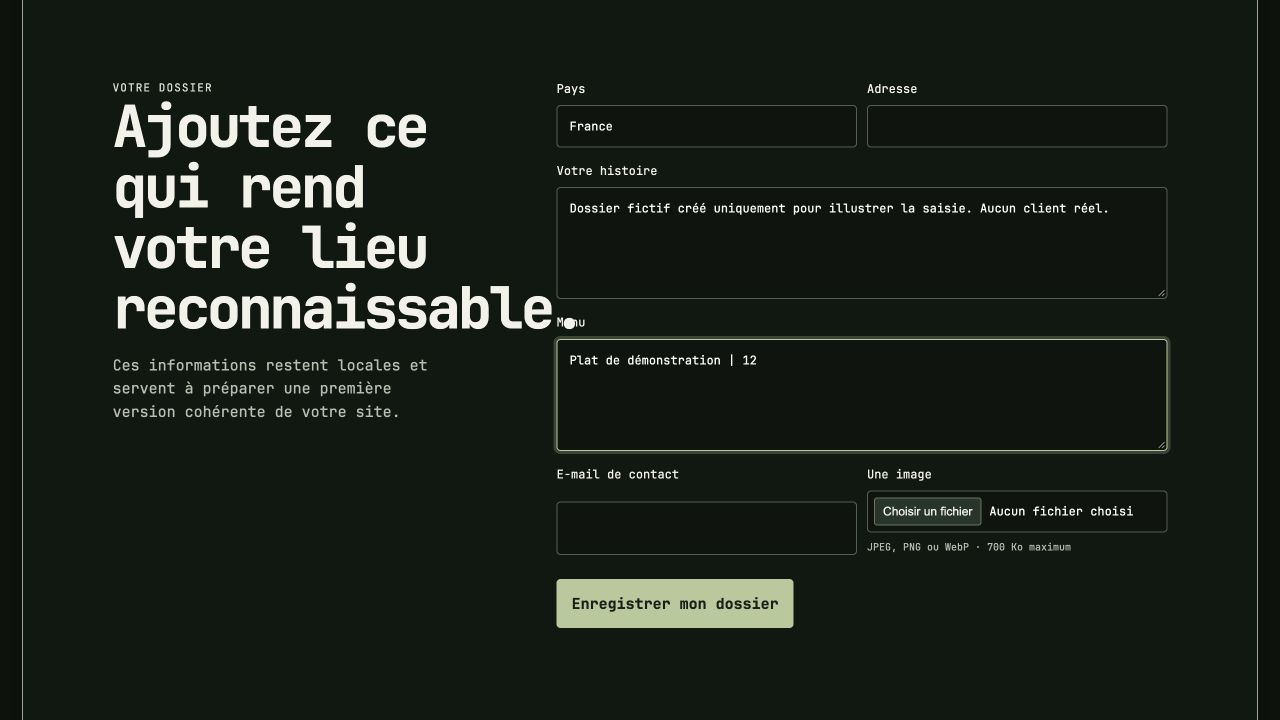
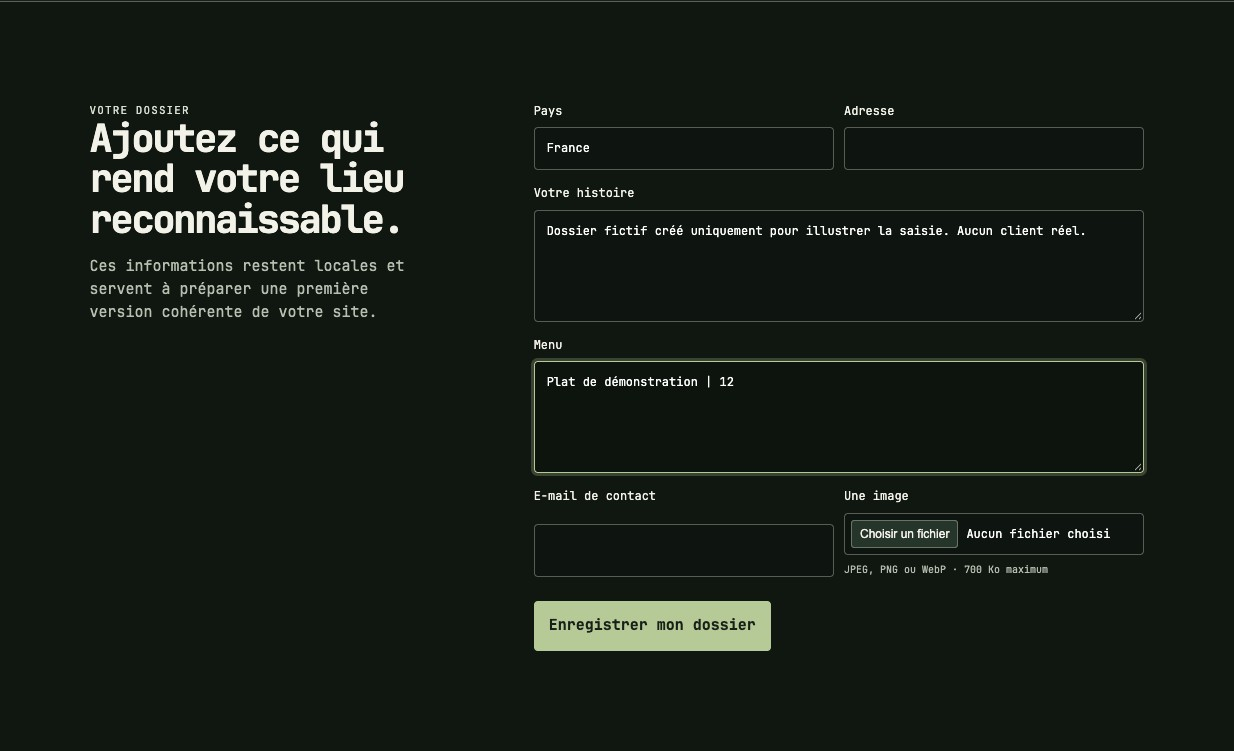
docs: expliquer les arbres de décision et corriger la capture du formulaire

diff --git a/app/intake.css b/app/intake.css
@@ -1,3 +1,4 @@
 @font-face{font-family:Jet;src:url('/assets/JetBrainsMono[wght].woff2') format('woff2');font-style:normal;font-weight:100 800;font-display:swap}
 :root{color-scheme:dark;--ink:#f3f2e9;--muted:#b8beb0;--line:#cad6c066;--deep:#172019;--deep-2:#26352a;--moss:#b6ca98;--paper:#e6e4d8;--black:#0d110e;font:15px/1.55 Jet,monospace}
 *{box-sizing:border-box}html{scroll-behavior:smooth}body{margin:0;background:#111711;color:var(--ink)}button,input,textarea{font:inherit}button{cursor:pointer}.intake-frame{min-height:100dvh;margin:22px;border:1px solid #e2e8d8a8;border-radius:18px;overflow:hidden;background:var(--deep);box-shadow:0 25px 100px #0009}.client-nav{position:relative;z-index:5;display:flex;align-items:center;justify-content:space-between;padding:24px 32px;border-bottom:1px solid #ffffff12}.client-brand{display:flex;align-items:center;gap:10px;color:var(--ink);text-decoration:none;font-size:24px;letter-spacing:-.045em}.mascot-mark{display:inline-grid;place-items:center;width:25px;height:25px;border:1px solid var(--moss);border-radius:48% 52% 45% 55%;color:var(--moss);font-size:13px;line-height:1;transform:rotate(-8deg)}.client-links{display:flex;align-items:center;gap:28px}.client-links a{color:var(--muted);text-decoration:none;font-size:12px;letter-spacing:.06em;text-transform:uppercase}.client-links a:hover{color:var(--ink)}.menu-button{display:none;border:1px solid var(--line);border-radius:5px;background:transparent;color:var(--ink);padding:8px 10px}.client-nav.menu-open .client-links{display:flex;position:absolute;z-index:5;top:100%;right:10px;left:10px;flex-direction:column;align-items:flex-start;gap:15px;padding:16px;background:var(--deep-2);border:1px solid var(--line);border-radius:0 0 8px 8px}.client-hero{position:relative;display:block;min-height:calc(100dvh - 79px);overflow:hidden}.hero-copy{position:relative;z-index:2;display:flex;flex-direction:column;justify-content:center;width:53%;min-height:calc(100dvh - 79px);padding:72px clamp(28px,7vw,105px);background:linear-gradient(90deg,#101711f5 0%,#101711d9 48%,transparent 100%)}.kicker,.small-label{font-size:11px;letter-spacing:.1em;text-transform:uppercase;color:#d9dfd1}.hero-copy h1{margin:14px 0 18px;font-size:clamp(44px,5.2vw,76px);line-height:1.05;letter-spacing:-.06em;font-weight:600;max-width:10ch;color:#fff}.hero-copy>p{color:#e1e5db;max-width:33ch;font-size:16px}.audit-form{margin-top:26px;max-width:390px;padding-top:22px;border-top:1px solid #dbe5d277}.form-label{display:block;color:#fff;font-size:13px;margin-bottom:11px}.field-row{display:grid;grid-template-columns:1.15fr .85fr;gap:8px}.field{width:100%;border:1px solid #e7eee055;border-radius:4px;background:#0d140ee6;color:#fff;padding:13px 12px;outline:none}.field::placeholder{color:#c1cabb}.field:focus{border-color:var(--moss);box-shadow:0 0 0 3px #b6ca9840}.primary{display:inline-flex;align-items:center;justify-content:center;gap:10px;margin-top:10px;border:1px solid var(--moss);border-radius:4px;padding:12px 14px;background:var(--moss);color:#182018;text-decoration:none;font-weight:600}.primary:hover{background:#cadbad}.primary:disabled{cursor:wait;opacity:.6}.form-note{margin:10px 0 0;color:#d0d8ca;font-size:11px}.form-state{display:none;margin:13px 0 0;color:#fff;font-size:13px}.form-state.show{display:block}.hero-art{position:absolute;inset:0;min-height:0;background:#0f1510;overflow:hidden}.hero-art:before{content:"";position:absolute;inset:0;background:linear-gradient(90deg,#101711f0 0%,#101711aa 31%,transparent 68%),linear-gradient(0deg,#0f1510b8 0%,transparent 32%);z-index:1;pointer-events:none}.hero-art img{width:100%;height:100%;object-fit:cover;object-position:70% center;filter:saturate(.88) contrast(1.05);animation:breath 12s ease-in-out infinite alternate}.section{padding:100px clamp(28px,7vw,105px);border-top:1px solid var(--line)}.section-grid{display:grid;grid-template-columns:minmax(200px,.7fr) 1.3fr;gap:9vw}.section h2{margin:0;font-size:clamp(34px,4.5vw,64px);line-height:1.05;letter-spacing:-.055em;font-weight:600;max-width:9ch}.section p{color:var(--muted);max-width:47ch}.explain-list{border-top:1px solid var(--line)}.explain{display:grid;grid-template-columns:42px 1fr;gap:16px;padding:18px 0;border-bottom:1px solid var(--line)}.explain-index{color:var(--moss);font-size:12px}.explain strong{display:block;font-weight:600;margin-bottom:4px}.explain span{color:var(--muted);font-size:13px}.promise{display:grid;grid-template-columns:1fr 1fr;gap:8vw;align-items:end}.promise h2{max-width:12ch}.promise p{margin:0}.dossier-section{background:#101711}.dossier-section h2{max-width:11ch}.dossier-section .section-grid{align-items:start}.dossier-form{display:grid;grid-template-columns:1fr 1fr;gap:14px 10px}.field-label{display:grid;gap:7px;color:var(--ink);font-size:12px}.field-label:nth-child(3),.field-label:nth-child(4){grid-column:1/-1}.field-label small{color:var(--muted);font-size:10px}.dossier-form .field{padding:11px 12px}.dossier-form textarea{min-height:112px;resize:vertical}.menu-input{min-height:90px}.file-field{padding:6px!important}.file-field::file-selector-button{margin-right:8px;border:1px solid var(--line);border-radius:3px;background:var(--deep-2);color:var(--ink);padding:6px 8px}.photo-preview{grid-column:1/-1}.photo-preview img{display:block;width:min(100%,280px);max-height:170px;object-fit:cover;border:1px solid var(--line)}.dossier-submit{grid-column:1/-1;display:flex;align-items:center;gap:14px}.dossier-submit [role=status]{color:#e4c178;font-size:12px}.success-section h2{max-width:none;margin:8px 0 14px}.success-section p{margin-bottom:18px}.client-footer{display:flex;justify-content:space-between;gap:20px;padding:24px 32px;border-top:1px solid var(--line);color:var(--muted);font-size:12px}.client-footer a{color:var(--moss);text-decoration:none}@keyframes breath{from{transform:scale(1.01) translate3d(0,0,0)}to{transform:scale(1.045) translate3d(-.5%,-.4%,0)}}[hidden]{display:none!important}@media(max-width:820px){.intake-frame{margin:10px;border-radius:12px}.client-nav{padding:19px 20px}.client-links{display:none}.menu-button{display:block}.client-hero{min-height:calc(100svh - 67px)}.hero-copy{width:100%;min-height:calc(100svh - 67px);justify-content:flex-end;padding:30px 24px 42px;background:linear-gradient(180deg,transparent 4%,#10171180 30%,#101711f2 62%,#101711 100%)}.hero-copy h1{max-width:12ch;font-size:clamp(40px,11vw,54px);line-height:1.06;margin-bottom:14px}.hero-copy>p{max-width:32ch;font-size:14px;margin-top:0}.audit-form{max-width:none;margin-top:20px;padding-top:18px}.field-row{grid-template-columns:1fr}.primary{width:100%;min-height:46px}.hero-art{height:100%;min-height:0}.section{padding:70px 24px}.section-grid,.promise{grid-template-columns:1fr;gap:36px}.section h2{max-width:12ch}.dossier-form{grid-template-columns:1fr}.field-label:nth-child(3),.field-label:nth-child(4){grid-column:auto}.dossier-submit{align-items:flex-start;flex-direction:column}.client-footer{padding:21px 20px;flex-wrap:wrap}}@media(prefers-reduced-motion:reduce){html{scroll-behavior:auto}.hero-art img{animation:none}}
+.dossier-section .section-grid h2{max-width:100%;font-size:clamp(24px,3vw,42px);overflow-wrap:anywhere}

diff --git a/docs/ARBRE-DE-DECISION.md b/docs/ARBRE-DE-DECISION.md
@@ -1,0 +1,141 @@
+# Ancrage : les arbres de décision du parcours client
+
+Mon travail ne se limite pas à créer un formulaire et un aperçu de site. J'ai conçu un parcours qui décide quoi rechercher, quoi demander au client, quels audits peuvent continuer et quand une démo peut être préparée puis présentée.
+
+Cette page reprend les documents de conception déjà préparés en août 2026, notamment **89, Parcours client complet Website Factory** et **90, Correction du parcours rapport GMB + SEO**. Les diagrammes ci-dessous en proposent une lecture simplifiée pour comprendre les décisions métier sans lire le code.
+
+**Comment lire cette page :** les diagrammes décrivent le parcours cible conçu. Une partie de ses règles existe dans le code du dépôt ; le formulaire photographié dans la visite ne raccorde pas encore toute cette chaîne. Les essais présentés sont des simulations locales, sans client réel ni appel payant. La dernière section indique précisément où retrouver la logique et ses limites.
+
+GMB désigne la fiche d'établissement Google, aujourd'hui appelée Google Business Profile. Le SEO désigne le référencement naturel, c'est-à-dire la visibilité dans les moteurs de recherche.
+
+## 1. Identifier le bon établissement
+
+Le point de départ prévu est le nom de l'établissement et une ville sélectionnée dans des suggestions structurées. Le système doit éviter de travailler sur une entreprise qui porte le même nom mais se trouve ailleurs.
+
+```mermaid
+flowchart TD
+  A["Le client indique son établissement et sa ville"] --> B{"Ville sélectionnée dans les suggestions ?"}
+  B -- Non --> C["Demander de sélectionner la ville et son pays"]
+  C --> B
+  B -- Oui --> D["Rechercher les établissements et leurs sources"]
+  D --> E{"Résultat de l'identification ?"}
+  E -- "Une correspondance forte" --> F["Afficher la fiche et laisser la possibilité de corriger"]
+  F --> G{"Le client signale une erreur ?"}
+  G -- Non --> H["Identité retenue pour la suite"]
+  G -- Oui --> K["Demander l'adresse sans redemander la ville"]
+  E -- "Plusieurs correspondances" --> I["Afficher les candidats pour un choix explicite"]
+  I --> J{"Un établissement est choisi ?"}
+  J -- Oui --> H
+  J -- "Aucun ne convient" --> K
+  E -- "Aucune fiche fiable" --> K
+  K --> L["Continuer par un aperçu local sans fiche Google confirmée"]
+  H --> M["Examiner le site officiel et les données disponibles"]
+  L --> M
+```
+
+Une fiche non trouvée ou non confirmée ne prouve pas que l'entreprise n'en possède aucune. Les informations manquantes ou contradictoires doivent être signalées et complétées, plutôt que remplacées par une supposition.
+
+## 2. Avec ou sans site : quels audits sont possibles ?
+
+J'ai prévu une restitution progressive : le client voit le premier rapport GMB dès qu'il est disponible, pendant que l'analyse SEO plus large continue. Si le site officiel est confirmé, son analyse de base peut commencer en parallèle de l'observation de la fiche Google.
+
+```mermaid
+flowchart TD
+  A["Identité et localisation disponibles"] --> B{"Fiche Google confirmée et sources utilisables ?"}
+  B -- Oui --> C["Observer la présence locale et préparer le rapport GMB"]
+  B -- Non --> D["Aperçu local avec limite explicite sur la fiche Google"]
+  A --> E{"Site officiel confirmé ?"}
+  E -- Oui --> F["Analyser les pages du site dans les limites du profil"]
+  E -- Non --> G["Aucun crawl du site : partie technique non disponible"]
+  C --> H["Afficher immédiatement le premier rapport GMB"]
+  H --> I["Poursuivre l'analyse SEO plus approfondie"]
+  D --> I
+  F --> I
+  G --> I
+  I --> J["Rechercher les mots-clés pertinents et les concurrents avec les données autorisées"]
+  J --> K["Réunir résultats, sources, priorités et limites"]
+  K --> L["Rapport final complet ou partiel selon les modules disponibles"]
+  L --> M["Rapport consultable et PDF final sans compte ni e-mail"]
+  L --> N["Proposer de préparer le site"]
+```
+
+Le premier rapport GMB seul ne déclenche ni téléchargement PDF partiel ni préparation du site. Dans le parcours prévu, ces deux possibilités apparaissent au rapport final. L'analyse plus approfondie complète les premiers résultats ; elle ne garantit pas un meilleur classement dans Google.
+
+| Situation du client | Ce qui peut continuer | Ce qui doit rester explicite |
+| --- | --- | --- |
+| Fiche Google et site confirmés | Observation locale, analyse du site, mots-clés et concurrence selon les sources disponibles | Périmètre, données observées et limites des résultats |
+| Fiche Google confirmée, aucun site confirmé | Rapport GMB et recherche locale de mots-clés et de concurrence | Aucun audit technique d'un site inexistant ou non confirmé |
+| Site confirmé, fiche Google non confirmée | Analyse du site et aperçu local | Aucune conclusion présentée comme un audit d'une fiche Google confirmée |
+| Ni site ni fiche confirmés | Collecte ciblée et aperçu local si les données le permettent | Les modules non exécutés restent indiqués ; le dossier peut être complété pour une future démo |
+| Service externe indisponible ou budget insuffisant | Conserver les résultats obtenus et expliquer les modules partiels ou bloqués | Aucun résultat inventé pour remplacer un appel non effectué |
+
+### Ce que les analyses examinent
+
+**Présence locale :** identifier l'établissement, recouper sa fiche et son adresse, conserver les sources et les éléments disponibles. Dans le code public actuel, le module GMB rassemble surtout des candidats et leur état de confirmation ; sa présence ne prouve pas encore un audit complet de tous les critères d'une fiche.
+
+**Site existant :** parcourir un nombre limité de pages et vérifier notamment les titres, descriptions, langue, adaptation mobile déclarée, liens canoniques, titres principaux, textes alternatifs des images et données structurées. Les contrôles de code disponibles ne constituent pas un audit illimité ni une mesure réelle de tous les aspects de performance.
+
+**Mots-clés et concurrence :** préparer des requêtes à partir de l'activité observée et de la ville, filtrer les résultats hors sujet, compléter les mesures disponibles et distinguer les concurrents locaux des candidats concurrents en référencement. Sans catégorie métier observée ou résultat exploitable, la limite doit être indiquée. L'IA prépare un plan de recherche ; ses propositions ne sont pas des volumes de recherche mesurés.
+
+## 3. Du rapport à la préparation d'une démo
+
+Le client garde la possibilité de lire son rapport sans demander de site. Dans le parcours conçu, son clic sur « Préparer mon site » ouvre la collecte d'un e-mail et la vérification du dossier. L'e-mail seul ne suffit pas à démarrer la génération.
+
+```mermaid
+flowchart TD
+  A["Rapport final disponible"] --> B{"Le client choisit de préparer son site ?"}
+  B -- Non --> C["Il reste libre de consulter et télécharger son rapport"]
+  B -- Oui --> D["Demander un e-mail pour la future démo"]
+  D --> E{"E-mail valide ?"}
+  E -- Non --> F["Demander une correction sans lancer la génération"]
+  F --> D
+  E -- Oui --> G["Enregistrer la demande de préparation"]
+  G --> H{"Dossier critique, langue, photos et droits complets ?"}
+  H -- Non --> I["Demander uniquement les éléments manquants ou à corriger"]
+  I --> H
+  H -- Oui --> J["Figer les données, versions de méthode et limites de budget"]
+  J --> K["Préparer le contenu, les images et la structure du site"]
+  K --> L["Construire un aperçu et effectuer les contrôles qualité"]
+  L --> M{"Contrôle bloquant ou interruption ?"}
+  M -- Oui --> N["Arrêter la présentation et examiner la cause dans le cockpit"]
+  N --> O["Correction et reprise explicitement décidées"]
+  O --> L
+  M -- Non --> P["Soumettre la démo à ma revue"]
+  P --> Q{"Ma décision après vérification ?"}
+  Q -- "À corriger" --> O
+  Q -- Abandonner --> R["Aucune présentation au client"]
+  Q -- Valider --> S["Démo autorisée à être présentée"]
+```
+
+Pour le premier segment, la restauration, le dossier prévu rassemble l'identité, l'adresse, un contact, le menu ou l'offre et les prix disponibles, la langue et cinq catégories de photos autorisées : façade, deux plats signatures, intérieur ou terrasse, équipe ou service. L'histoire du lieu peut enrichir le contenu. Les informations critiques contradictoires doivent être corrigées avant génération ; aucune offre, aucun prix ni horaire n'est inventé.
+
+Le parcours commercial cible prévoit ensuite un lien privé de démo, puis une décision d'achat éventuelle et enfin les étapes de domaine et de publication. **L'envoi d'e-mail, le paiement et la publication en production ne sont pas validés par les essais montrés dans ce dépôt.** L'objectif est de faire découvrir la démo avant une décision d'achat, avec une validation humaine avant présentation.
+
+## 4. Ce que cette conception représente dans mon travail
+
+- Définir les branches pour un établissement trouvé, ambigu ou non confirmé, avec ou sans site.
+- Organiser des tâches parallèles et une restitution progressive pour rendre le premier résultat disponible sans attendre toutes les analyses.
+- Définir les informations nécessaires à chaque étape et les conditions qui autorisent la suite.
+- Prévoir les résultats partiels, les erreurs, les limites de coût et la reprise d'un travail interrompu.
+- Séparer les faits, les mesures, les propositions et les informations à confirmer.
+- Garder une validation humaine entre la génération d'un aperçu et sa présentation au client.
+
+## 5. Où retrouver ces règles dans le dépôt ?
+
+Ces liens permettent de vérifier le travail technique derrière les diagrammes. Il n'est pas nécessaire de lire ces fichiers pour comprendre le parcours.
+
+| Fichier | Rôle et limite actuelle |
+| --- | --- |
+| [Orchestration des audits publics](../src/audit/public-audit-workflow.mjs) | Recherche d'établissement, recherche de site, premier rapport GMB puis continuation SEO, mots-clés, concurrence et rapport final. Un domaine fourni ou transmis par Google Places est utilisé ; les sites candidats découverts ne sont pas automatiquement adoptés comme site officiel. |
+| [Raccordement des services](../src/app.mjs) | Retour du rapport GMB et poursuite de l'analyse par une tâche de continuation. |
+| [États et conditions du parcours public](../src/public/public-control-plane.mjs) | Décision d'identification, rapports, e-mail, dossier, cinq catégories de photos, droits, démarrage et validation de la démo. Une indisponibilité du service peut bloquer la recherche initiale et donc toute la chaîne. |
+| [Analyse SEO des pages](../src/audit/seo-audit.mjs) et [parcours du site](../src/audit/site-crawler.mjs) | Contrôles déterministes et collecte bornée, avec preuves et résultats partiels. |
+| [Préparation de la recherche SEO](../src/audit/seo-research-planner.mjs) et [tri des résultats](../src/audit/seo-qualification.mjs) | Plan de recherche, repli sans IA, filtrage de pertinence et qualification des concurrents. |
+| [Workflow configurable de recherche SEO](../fixtures/defaults/workflows/local-seo-research.json), [consigne](../fixtures/defaults/prompts/local-seo-research-planner.md) et [format attendu](../fixtures/defaults/contracts/seo-research-plan.schema.json) | Méthode, consigne versionnable et structure de résultat exigée. Ces fichiers ne contiennent pas à eux seuls tout l'arbre métier. |
+| [Simulation de création de site](../src/simulation/client-site-simulation.mjs) | Chaîne de six étapes utilisée pour les captures : validation, rapport local, rapport SEO, contenu, aperçu et qualité. Ses audits sont simulés. |
+| [Formulaire présenté dans la visite](../app/intake.mjs) | Collecte et stockage local du dossier ; le bouton « Voir mon audit » ouvre le formulaire suivant sans lancer la chaîne connectée. |
+| [Tests des audits progressifs](../test/audit/public-audit-workflow.test.mjs) et [tests du parcours public](../test/public/public-control-plane.test.mjs) | Vérification des branches avec des services synthétiques ; validation des API réelles encore nécessaire. |
+
+Les documents d'origine décrivent une conception plus large que le prototype public. Cette page conserve leur logique métier tout en signalant les écarts avec le code et les captures du 11 octobre 2026. Elle ne présente pas le parcours cible comme un service commercial déjà exploité.
+
+[Revenir à la présentation du projet](../README.md) · [Ouvrir la visite guidée](VISITE-GUIDEE.md)

diff --git a/README.md b/README.md
@@ -55,6 +55,10 @@ Les plafonds affichés sont des paramètres techniques de démonstration. Ils ne
 
 ## Le parcours prévu
 
+[Lire les arbres de décision : selon les informations du client, la présence d'une fiche Google et d'un site, puis les résultats des audits](docs/ARBRE-DE-DECISION.md).
+
+Cette page présente le parcours que j'ai conçu, ses embranchements et les conditions de passage d'une étape à la suivante. Elle distingue la méthode prévue, la logique déjà codée et la simulation montrée dans les captures.
+
 Informations du client → validation du dossier → audit de visibilité locale → analyse SEO et concurrence → plan de contenu → aperçu du site → contrôle qualité et validation.
 
 La simulation locale parcourt cette chaîne et produit ses rapports et son aperçu. Les rapports simulés servent à vérifier l'organisation du processus ; ils ne prouvent pas qu'une analyse complète de concurrents réels a été effectuée automatiquement.

diff --git a/docs/VISITE-GUIDEE.md b/docs/VISITE-GUIDEE.md
@@ -12,6 +12,8 @@ Le client indique son établissement et sa ville, complète son dossier, puis l'
 
 Deux mots présents dans les écrans : un **workflow** est une suite d'étapes de travail ; un **run** est une exécution de cette suite sur un dossier donné.
 
+[Voir les arbres de décision du parcours](ARBRE-DE-DECISION.md) : établissement trouvé ou ambigu, site présent ou non confirmé, rapport GMB puis SEO, dossier incomplet et validation de la démo.
+
 ## 1. Le client arrive sur l'entrée publique
 
 L'écran présente Ancrage et propose de commencer avec le nom de l'établissement et sa ville. Les liens « Comment ça marche » et « Ce que vous recevez » expliquent le parcours prévu.
